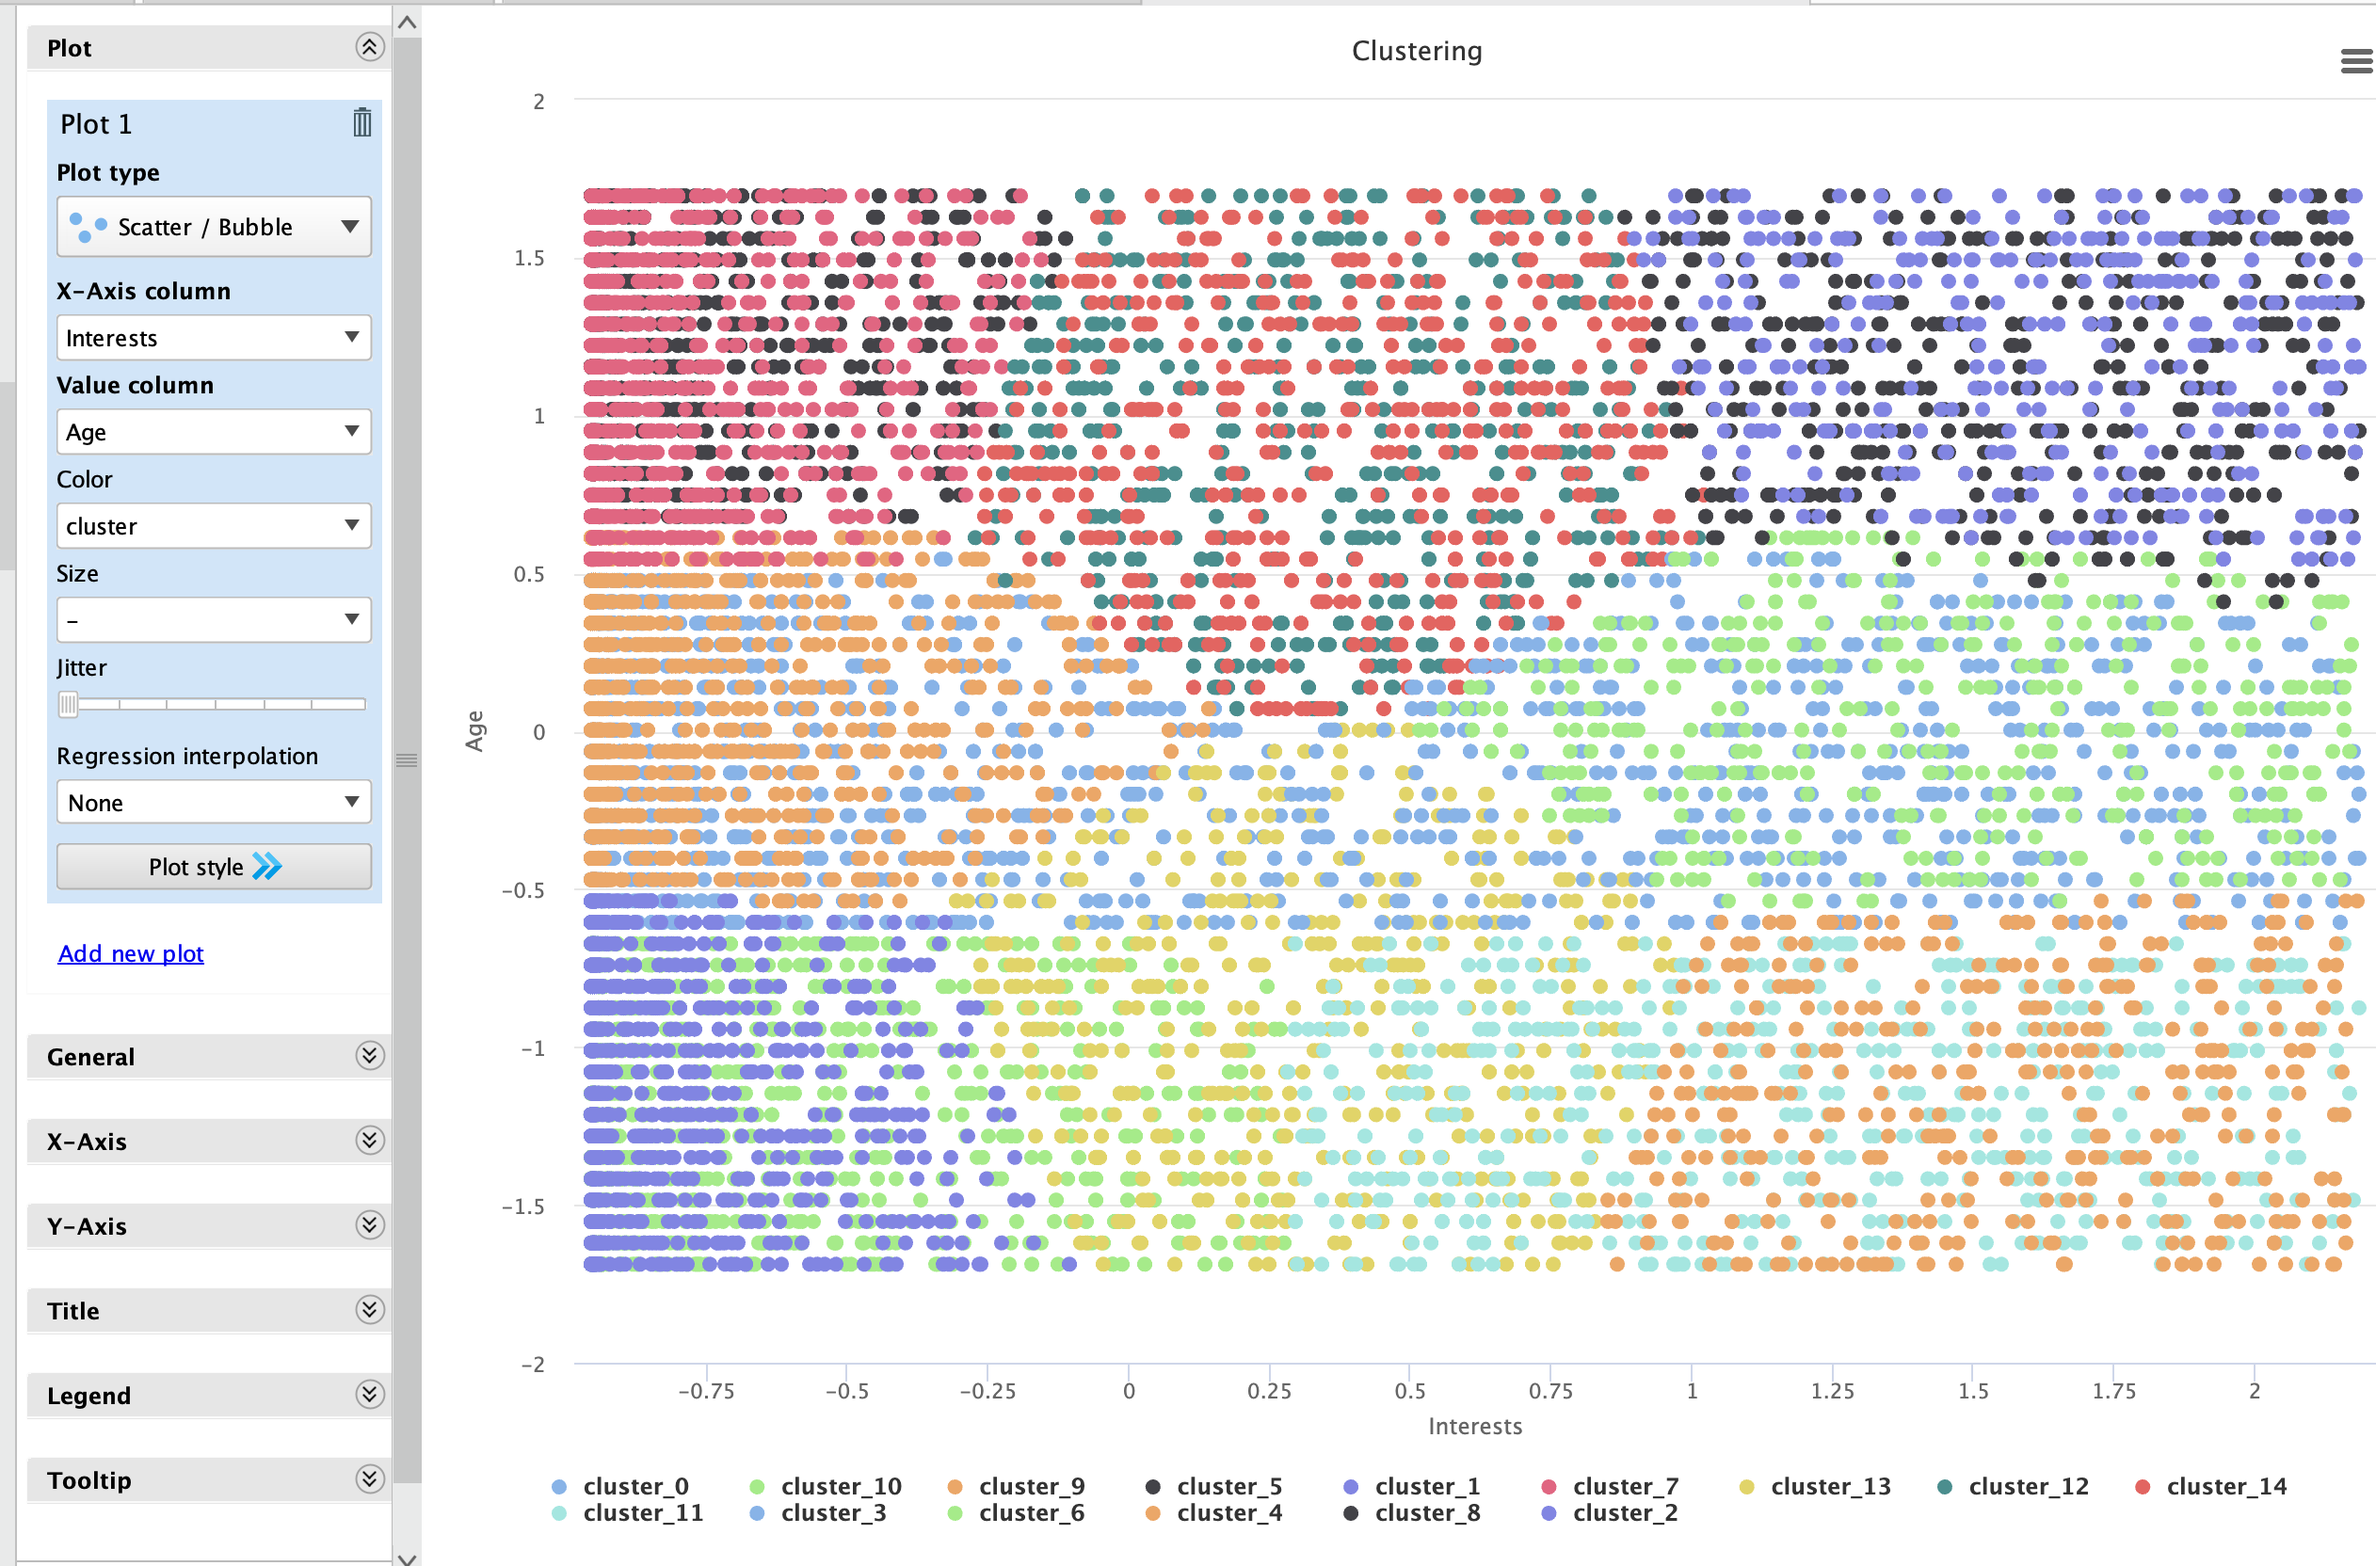
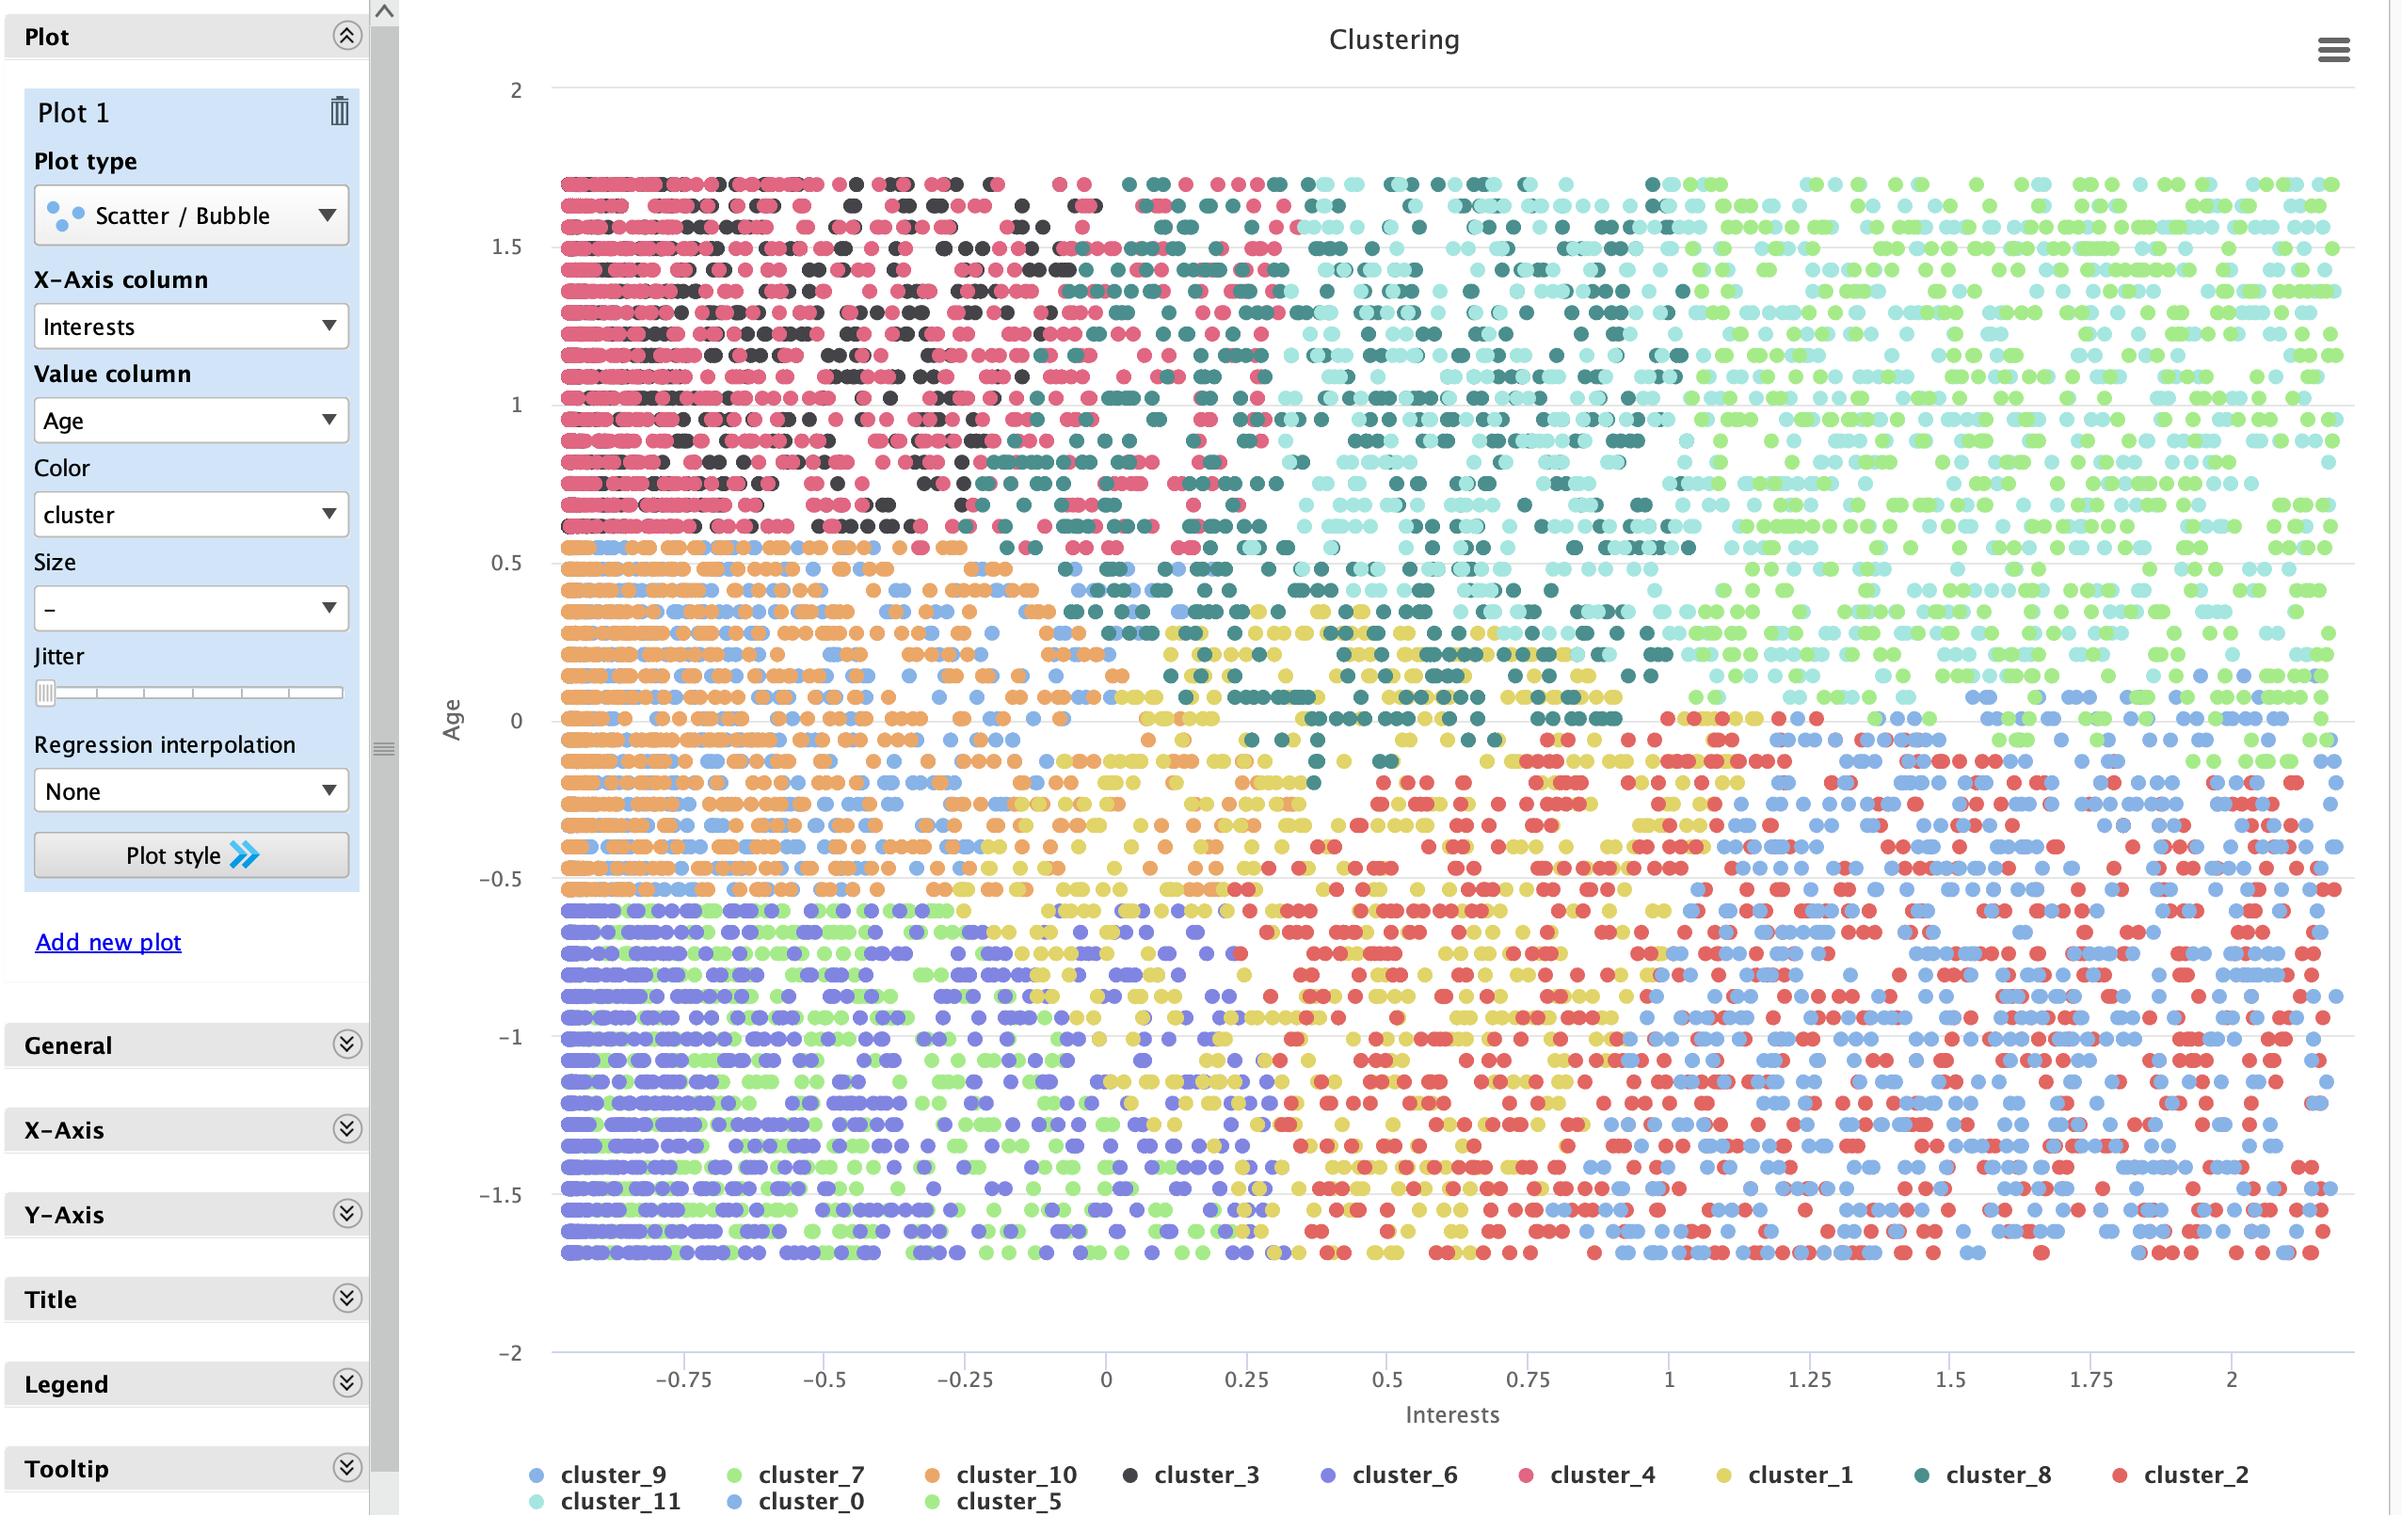
Case with k-means finiched"

diff --git a/src/research_cases/UserInterest.html b/src/research_cases/UserInterest.html
@@ -190,11 +190,15 @@
 
                         El eje "x" representa el número de clusters k y el eje "y" representa la métrica "Avg. within centroid distance" calculada para cada k.
 
-                        En este caso, ajustamos el operador "Loop Parameters" para explorar desde k = 2 hasta k = 100 con 30 steps.
+                        En este caso, ajustamos el operador "Loop Parameters" para explorar desde k = 2 hasta k = 30 con 20 steps.
                     </p>
 
                     <div class="d-flex justify-content-start align-items-start">
                         <img src="../../Assets/research_images/userInterestAssets/elbow.png" class="img-fluid"
+                            style="width: 60%;">
+                    </div>
+                    <div class="d-flex justify-content-start align-items-start">
+                        <img src="../../Assets/research_images/userInterestAssets/elbowAvg.png" class="img-fluid"
                             style="width: 60%;">
                     </div>
 
@@ -202,21 +206,42 @@
                         Una vez creada la representación grafica, podemos observar que La gráfica sigue una tendencia decreciente, lo que es esperado. A medida que aumenta el número de clusters, 
                         la distancia promedio al centroide disminuye porque hay más clusters para capturar las variaciones dentro de los datos.
 
-                        El "codo" es el punto en el cual la reducción en la distancia promedio comienza a ser menos significativa. En este caso, el codo parece encontrarse alrededor de k = 15. Esto significa que hasta 
-                        k = 15 agregar más clusters resulta en una mejora sustancial en la compactación de los clusters. Más allá de k=15, la mejora es marginal.
+                        El "codo" es el punto en el cual la reducción en la distancia promedio comienza a ser menos significativa. En este caso, el codo parece encontrarse alrededor de k = 12. Esto significa que hasta 
+                        k = 12 agregar más clusters resulta en una mejora sustancial en la compactación de los clusters. Más allá de k=12, la mejora es marginal.
 
-                        Si tomamos k = 15 balancea una buena segmentación de los datos sin sobreajustar (demasiados clusters).
+                        Si tomamos k = 12 balancea una buena segmentación de los datos sin sobreajustar demasiado.
 
                     </p>
 
-                    <h5>Luego de ejecutar el algoritmo obtenemos el siguiente resultado</h5>
+
+                    <p>
+                        También podemos calcular el k mas eficiente a través del metodo de Davies Boudin, este valor representa la relación entre la compacidad de los clusters y su separación.
+                        En este caso, debemos buscar el punto donde el índice es más bajo, ya que esto indica el mejor k.
+                        Con los mismos parametros que ejecutamos el anterior obtenemos los siguientes resultados.
+                    </p>
+
+                    <div class="d-flex justify-content-start align-items-start">
+                        <img src="../../Assets/research_images/userInterestAssets/daviesBoudinK.png" class="img-fluid"
+                            style="width: 60%;">
+                    </div>
+                    <div class="d-flex justify-content-start align-items-start">
+                        <img src="../../Assets/research_images/userInterestAssets/daviesBoudin.png" class="img-fluid"
+                            style="width: 60%;">
+                    </div>
+
+                    <p>
+                        Podemos observar que si tomamos un k = 12 es un valor optimo según este método para no sobreajustar el algoritmo, lo cual concuerda con el índice obtenido en "Avg. within centroid distance".
+                    </p>
+
+
+                    <h5>Luego de seleccionado el k ejecutamos el algoritmo y obtenemos el siguiente resultado</h5>
                     <div class="d-flex justify-content-start align-items-start">
                         <img src="../../Assets/research_images/userInterestAssets/clusters.png" class="img-fluid"
                             style="width: 60%;">
                     </div>
 
                     <p>El eje "x" representa la característica "Interests" de los datos, previamente normalizada y El eje "y" representa la característica "Age" también normalizada.
-                        Cada color denota un cluster único, con un total de 15 clusters representados.
+                        Cada color denota un cluster único, con un total de 12 clusters representados.
                         Los clusters parecen estar distribuidos de forma razonable, con diferenciación visible en ciertas regiones. Sin embargo, algunos clusters parecen solaparse o tener menos separación clara.
                         Esto se debe a la naturaleza de los datos ya que pueden haber personas de diferentes edades con los mismos intereses o viceversa, estos atributos no son completamente independientes ni perfectamente discriminantes.
                     </p>
@@ -227,35 +252,11 @@
                     </div>
 
                     <p>En este caso, el eje "x" representa la característica "Interests" de los datos, previamente normalizada y El eje "y" representa la característica "Gender".
-                        Cada color denota un cluster único, con un total de 15 clusters representados.
+                        Cada color denota un cluster único, con un total de 12 clusters representados.
                         La separación clara en dos líneas horizontales (-1 y 1) indica que los datos se distribuyen únicamente entre dos géneros, lo que significa que el atributo no tiene valores intermedios.
                         También se observa que los colores de los clusters están mezclados dentro de los valores de Interests, lo que indica que los intereses no son un atributo completamente discriminante para separar los clusters, esto es un reflejo de la naturaleza de los datos, donde diferentes personas comparten intereses similares independientemente del género.
                         Algunos clusters ocupan rangos amplios en el eje de Interests, lo que sugiere una mayor diversidad en los intereses dentro de esos grupos.
                     </p>
-                    <h6>Comparison of Confusion Matrices:</h6>
-                    <ul>
-                        <li><strong>Overall accuracy improvement:</strong> Increased from 49.82% to 65.61%, indicating
-                            better model performance by removing irrelevant attributes.</li>
-                        <li><strong>Class precision:</strong> The precision of the "Won" class improved from 60.18% to
-                            70.63%, and the "Lost" class increased from 55.56% to 73.68%. The "Draw" class also
-                            improved, going from 29.27% to 50.60%.</li>
-                    </ul>
-                    <h5>Other Feature Selection Techniques</h5>
-                    <ul>
-                        <li>The Backward Elimination technique improved accuracy, but was inferior to Forward Selection.
-                        </li>
-                        <li>Optimize Selection matched Forward Selection's accuracy but did not exceed it.</li>
-                    </ul>
-
-                    <h5>Now lets try with decision tree</h5>
-                    <div class="d-flex justify-content-start align-items-start">
-                        <img src="../../Assets/research_images/decision_process.png" class="img-fluid"
-                            style="width: 60%;">
-                    </div>
-                    <p>After run process, it shows a new matrix</p>
-                    <div class="d-flex justify-content-start align-items-start">
-                        <img src="../../Assets/research_images/decision_tree.png" class="img-fluid">
-                    </div>
                 </div>
             </div>
         </div>
